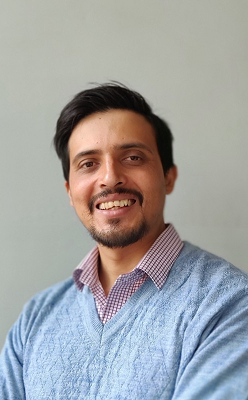
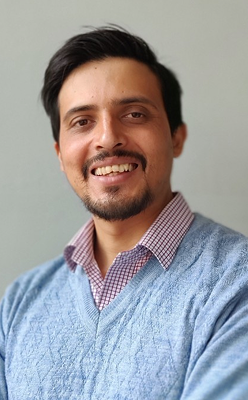
fix exclusive events image size and some ui changes

diff --git a/src/features/home/components/ExclusiveEventsSection.tsx b/src/features/home/components/ExclusiveEventsSection.tsx
@@ -41,7 +41,7 @@ const exclusiveEvents = [
     name: 'Biplab Subedi',
     role: 'Managing Director',
     company: 'OpenAI',
-    logoLabel: '/home/exclusive-events/gold.png',
+    logoLabel: '/home/exclusive-events/snappet.png',
     image: '/home/exclusive-events/biplab_subedi.png',
     description:
       'Expert in venture capital cycles and strategic mergers within the burgeoning global technology sector.',
@@ -69,13 +69,13 @@ export function ExclusiveEventsSection() {
   return (
     <section className="px-4 pb-20 sm:px-8 lg:pb-28">
       <div className="mx-auto max-w-[1280px]">
-        <div className="flex flex-col gap-4 sm:flex-row sm:items-end sm:justify-between">
+        <div className="flex flex-col gap-4 py-6 sm:flex-row sm:items-end sm:justify-between">
           <div>
-            <p className="text-sm font-extrabold tracking-[0.18em] text-[#004ac6] uppercase">
+            {/* <p className="text-sm font-extrabold tracking-[0.18em] text-[#004ac6] uppercase">
               Mentorship redefined
-            </p>
-            <h2 className="mt-4 font-[family-name:var(--font-headline)] text-4xl leading-[1.05] font-extrabold text-[#121c2a] sm:text-5xl lg:text-6xl">
-              Exclusive Events
+            </p> */}
+            <h2 className="mt-4 font-[family-name:var(--font-headline)] text-4xl leading-[1.05] font-extrabold text-[#121c2a] sm:text-5xl">
+              Exclusive <span className="text-blue-600">Events</span>
             </h2>
           </div>
 
@@ -106,15 +106,15 @@ export function ExclusiveEventsSection() {
           {exclusiveEvents.map((event) => (
             <article
               key={event.name}
-              className="flex min-h-[560px] w-[82vw] max-w-[360px] shrink-0 snap-start flex-col rounded-xl bg-white p-3 shadow-[0_18px_50px_rgba(18,28,42,0.08)] ring-1 ring-[#d9e3f6]/55 sm:w-[44vw] lg:w-auto lg:max-w-none"
+              className="flex min-h-[560px] w-[82vw] max-w-[360px] shrink-0 snap-start flex-col rounded-xl bg-white px-2 pt-2 pb-4 shadow-[0_18px_50px_rgba(18,28,42,0.08)] ring-1 ring-[#d9e3f6]/55 sm:w-[44vw] lg:w-auto lg:max-w-none"
             >
-              <div className="relative aspect-[3/5] overflow-hidden rounded-xl bg-[#eff4ff]">
+              <div className="relative aspect-[5/5] overflow-hidden rounded-xl bg-[#eff4ff]">
                 <Image
                   src={event.image}
                   alt={event.name}
                   fill
                   sizes="(min-width: 1024px) 280px, (min-width: 640px) 44vw, 82vw"
-                  className="object-cover"
+                  className="object-cover object-top"
                   priority
                 />
                 <div className="absolute bottom-4 left-4 flex max-w-[calc(100%-2rem)] items-center gap-2 rounded-md bg-white/92 px-3 py-2 text-xs font-extrabold text-[#121c2a] shadow-[0_10px_24px_rgba(18,28,42,0.16)] backdrop-blur">

diff --git a/src/app/(public)/page.tsx b/src/app/(public)/page.tsx
@@ -2,12 +2,10 @@ import { HeroSection } from '@/features/home/components/HeroSection'
 import { BecomeCounsellorSection } from '@/features/home/components/BecomeCounsellorSection'
 import { FilterProvider } from '@/features/filters/context/FilterContext'
 import { Statistics } from '@/features/home/components/Statistics'
-import { FeaturedMentors } from '@/features/home/components/FeaturedMentors'
 import { TestimonialsSection } from '@/features/home/components/TestimonialsSection'
 import { ExclusiveEventsSection } from '@/features/home/components/ExclusiveEventsSection'
-// import { MentorCompaniesMarquee } from '@/features/home/components/MentorCompaniesMarquee'
-// import { QuotesMarquee } from '@/features/home/components/QuotesMarquee'
 import { HowItWorksFaq } from '@/features/how-it-works/components/HowItWorksFaq'
+import { MentorCompaniesMarquee } from '@/features/home/components/MentorCompaniesMarquee'
 
 export default function Home() {
   return (
@@ -15,9 +13,10 @@ export default function Home() {
       <main className="sm:pt min-h-screen pt-28">
         <FilterProvider>
           <HeroSection />
-          <FeaturedMentors />
+          <MentorCompaniesMarquee />
+          {/* <FeaturedMentors /> */}
           <ExclusiveEventsSection />
-          {/* <MentorCompaniesMarquee /> */}
+
           <Statistics />
           {/* <QuotesMarquee /> */}
           <TestimonialsSection />

diff --git a/src/features/home/components/MentorCompaniesMarquee.tsx b/src/features/home/components/MentorCompaniesMarquee.tsx
@@ -1,19 +1,19 @@
 const MENTOR_COMPANIES = [
-  'Google',
-  'Meta',
-  'Stripe',
-  'Goldman Sachs',
-  'Airbnb',
-  'Tesla',
-  'Netflix',
   'Leapfrog',
+  'Fuse Machine',
+  'Snappet',
+  'Webpoint',
+  'Legal Access Nepal',
+  'Manab Dental Home',
+  'Madhyapur Hospital',
+  'Aspire Academy',
 ]
 
 export function MentorCompaniesMarquee() {
   return (
     <section
       id="mentor-companies"
-      className="scroll-mt-32 overflow-hidden bg-[#f8f9ff] px-4 py-12 sm:px-8"
+      className="scroll-mt-32 overflow-hidden bg-white px-4 py-12 sm:px-8"
       aria-label="Mentor companies"
     >
       <div className="mx-auto max-w-[1380px]">
